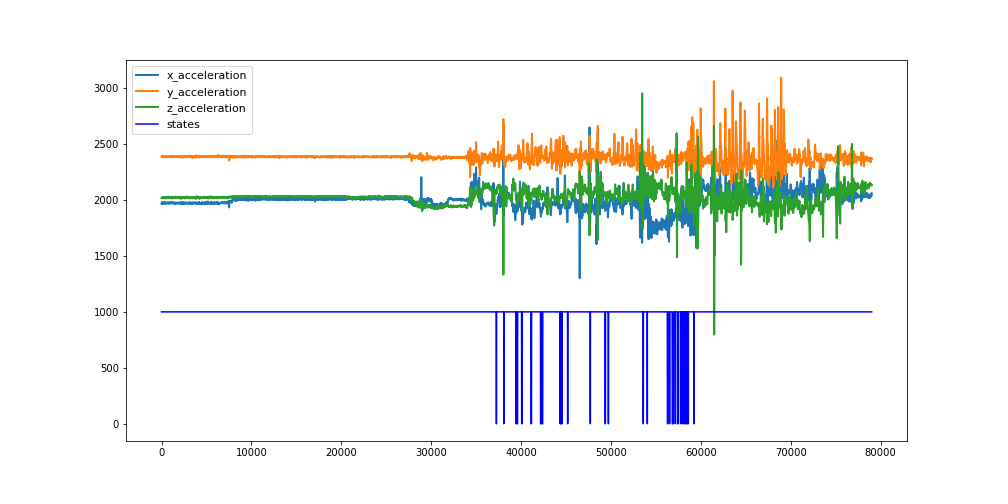
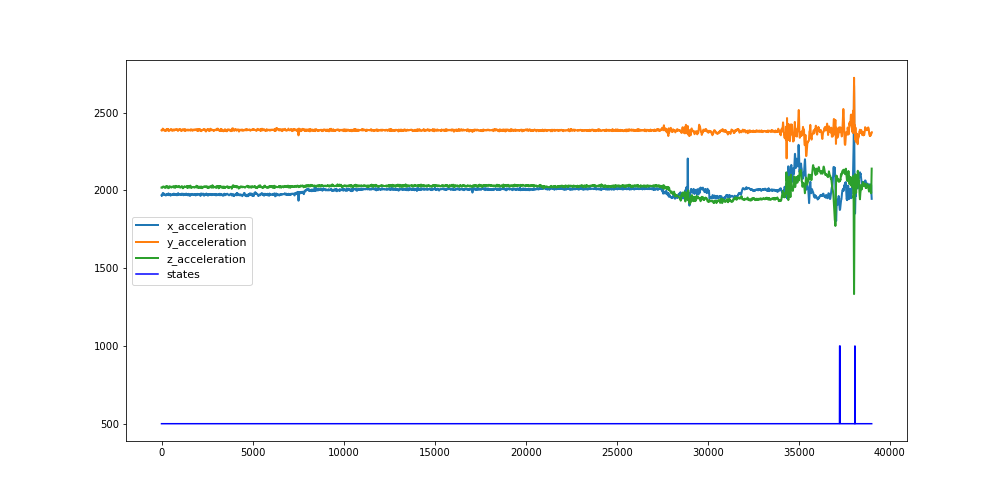
updating figures

diff --git a/code/Ass3/Ass3-Q2.py b/code/Ass3/Ass3-Q2.py
@@ -126,10 +126,10 @@ if False:
 
 data1 = DF1.iloc[:, 5:].values
 
-# from sklearn import preprocessing
+from sklearn import preprocessing
 
-# scaler = preprocessing.MinMaxScaler()
-# data = scaler.fit_transform(data1)
+scaler = preprocessing.MinMaxScaler()
+data1 = scaler.fit_transform(data1)
     
     
 data = np.moveaxis(data1, 1, 0)
@@ -139,8 +139,8 @@ XX = np.array([data[:, i : i + 3] for i in range(0, 45, 3)])
 lengths = DF1.iloc[:, 4].values
 lengths = [int(lengths[i]) for i in range(0, 28, 3)]
 # lengths = [84000] * 10
-w=1000
-ww =80000
+w=0000
+ww =40000
 model = hmm.GaussianHMM(n_components=3).fit(np.vstack(XX[0:10, :, :]), lengths)
 dec = list()
 for i in range(0, 43, 3):
@@ -151,6 +151,6 @@ for i in range(0, 43, 3):
     plt.plot(data[w:ww, i + 1], linewidth=2, label="y_acceleration")
     plt.plot(data[w:ww, i + 2], linewidth=2, label="z_acceleration")
 
-    plt.plot(500* dec[int(i / 3)][w:ww], label="states", color="Blue")
+    plt.plot(dec[int(i / 3)][w:ww], label="states", color="Blue")
     plt.legend(fontsize=11)
-    plt.savefig(os.path.join(fig_dir, a + "states_user_" + str(int(i / 3)) + ".png"))
+    plt.savefig(os.path.join(fig_dir, a + "states_user_" + str(int(i / 3)) + "N.png"))

diff --git a/code/Ass3/Ass3-Q3.py b/code/Ass3/Ass3-Q3.py
@@ -109,12 +109,12 @@ DF1 = pd.concat([DF, DF2], axis=1)
 #########      Saving and showing the plot of the raw signal      ##########
 ############################################################################
 if False:
-    i = 126
+    i = 24
     print("[INFO] Saving and showing the plot of the dataset")
     plt.figure()
-    fig = DF1.iloc[i, 4:].plot(label="x_acceleration")
-    fig = DF1.iloc[i + 1, 4:].plot(label="y_acceleration")
-    fig = DF1.iloc[i + 2, 4:].plot(label="z_acceleration")
+    fig = DF1.iloc[i, 5:].plot(label="x_acceleration")
+    fig = DF1.iloc[i + 1, 5:].plot(label="y_acceleration")
+    fig = DF1.iloc[i + 2, 5:].plot(label="z_acceleration")
     plt.title("Person: " + str(DF1.iloc[i, 0]) + ", activity: " + DF1.iloc[i, 1])
     plt.legend()
     plt.savefig(os.path.join(fig_dir, a + "raw_signal.png"))
